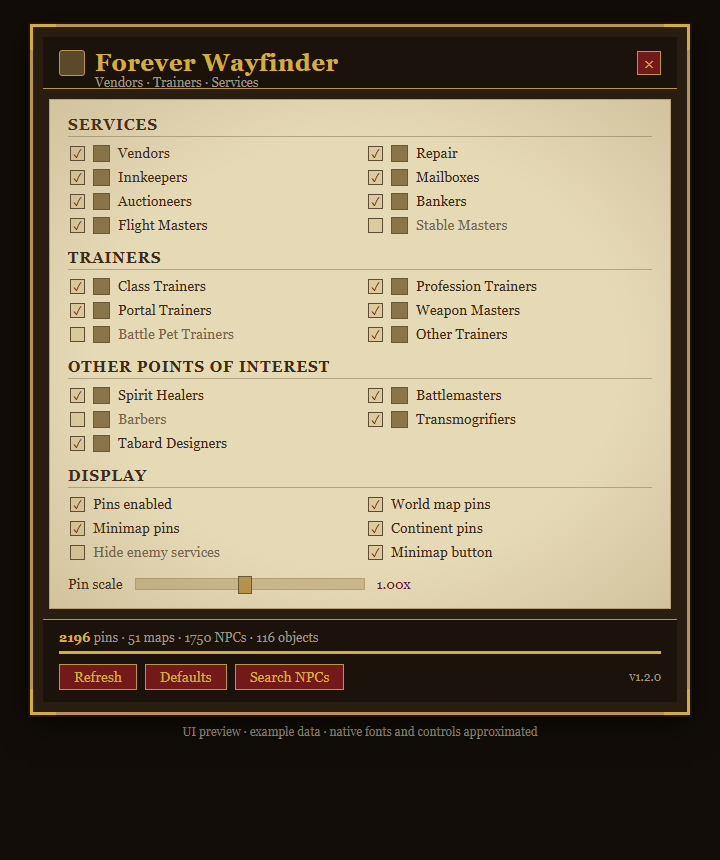
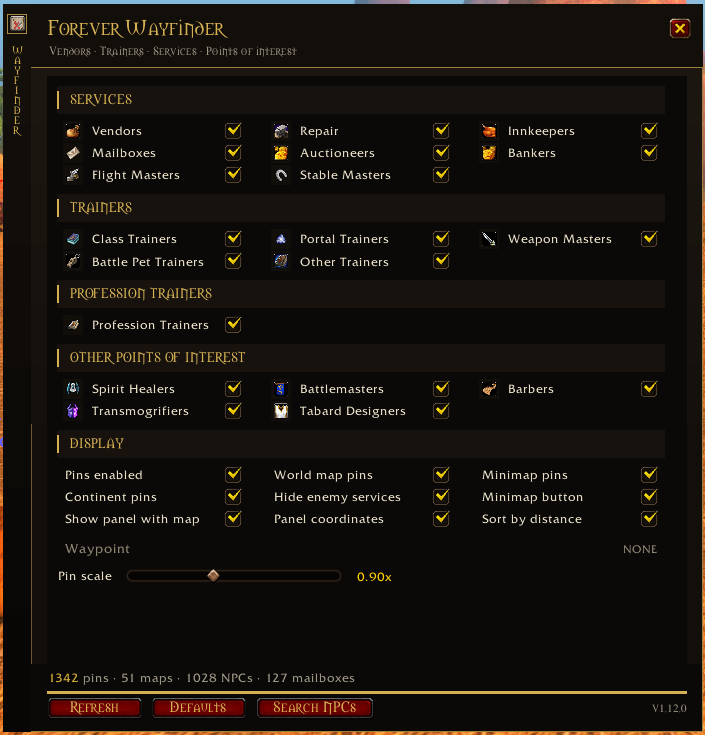
Show the 1.12.0 windows in the README
The README still carried screenshots of the 1.3.0 settings page and search
window. Replace them with the current settings window, which now fits every
section on one page without scrolling, and the Cartographer's Column on The
Barrens map with the services filter, NEAR ME distances, and facet chips
visible. The old search-window screenshot is dropped because the search
window is unchanged in 1.12.0 and the map sidebar is the surface this
release is about.

diff --git a/README.md b/README.md
@@ -6,7 +6,7 @@ Forever Wayfinder reads its location data from **QuestieDB** at runtime and disp
 
 ![Forever Wayfinder settings panel](docs/screenshot-settings.png)
 
-![Forever Wayfinder search window](docs/screenshot-search.png)
+![Forever Wayfinder map location browser](docs/screenshot-map.png)
 
 ## Features
 
